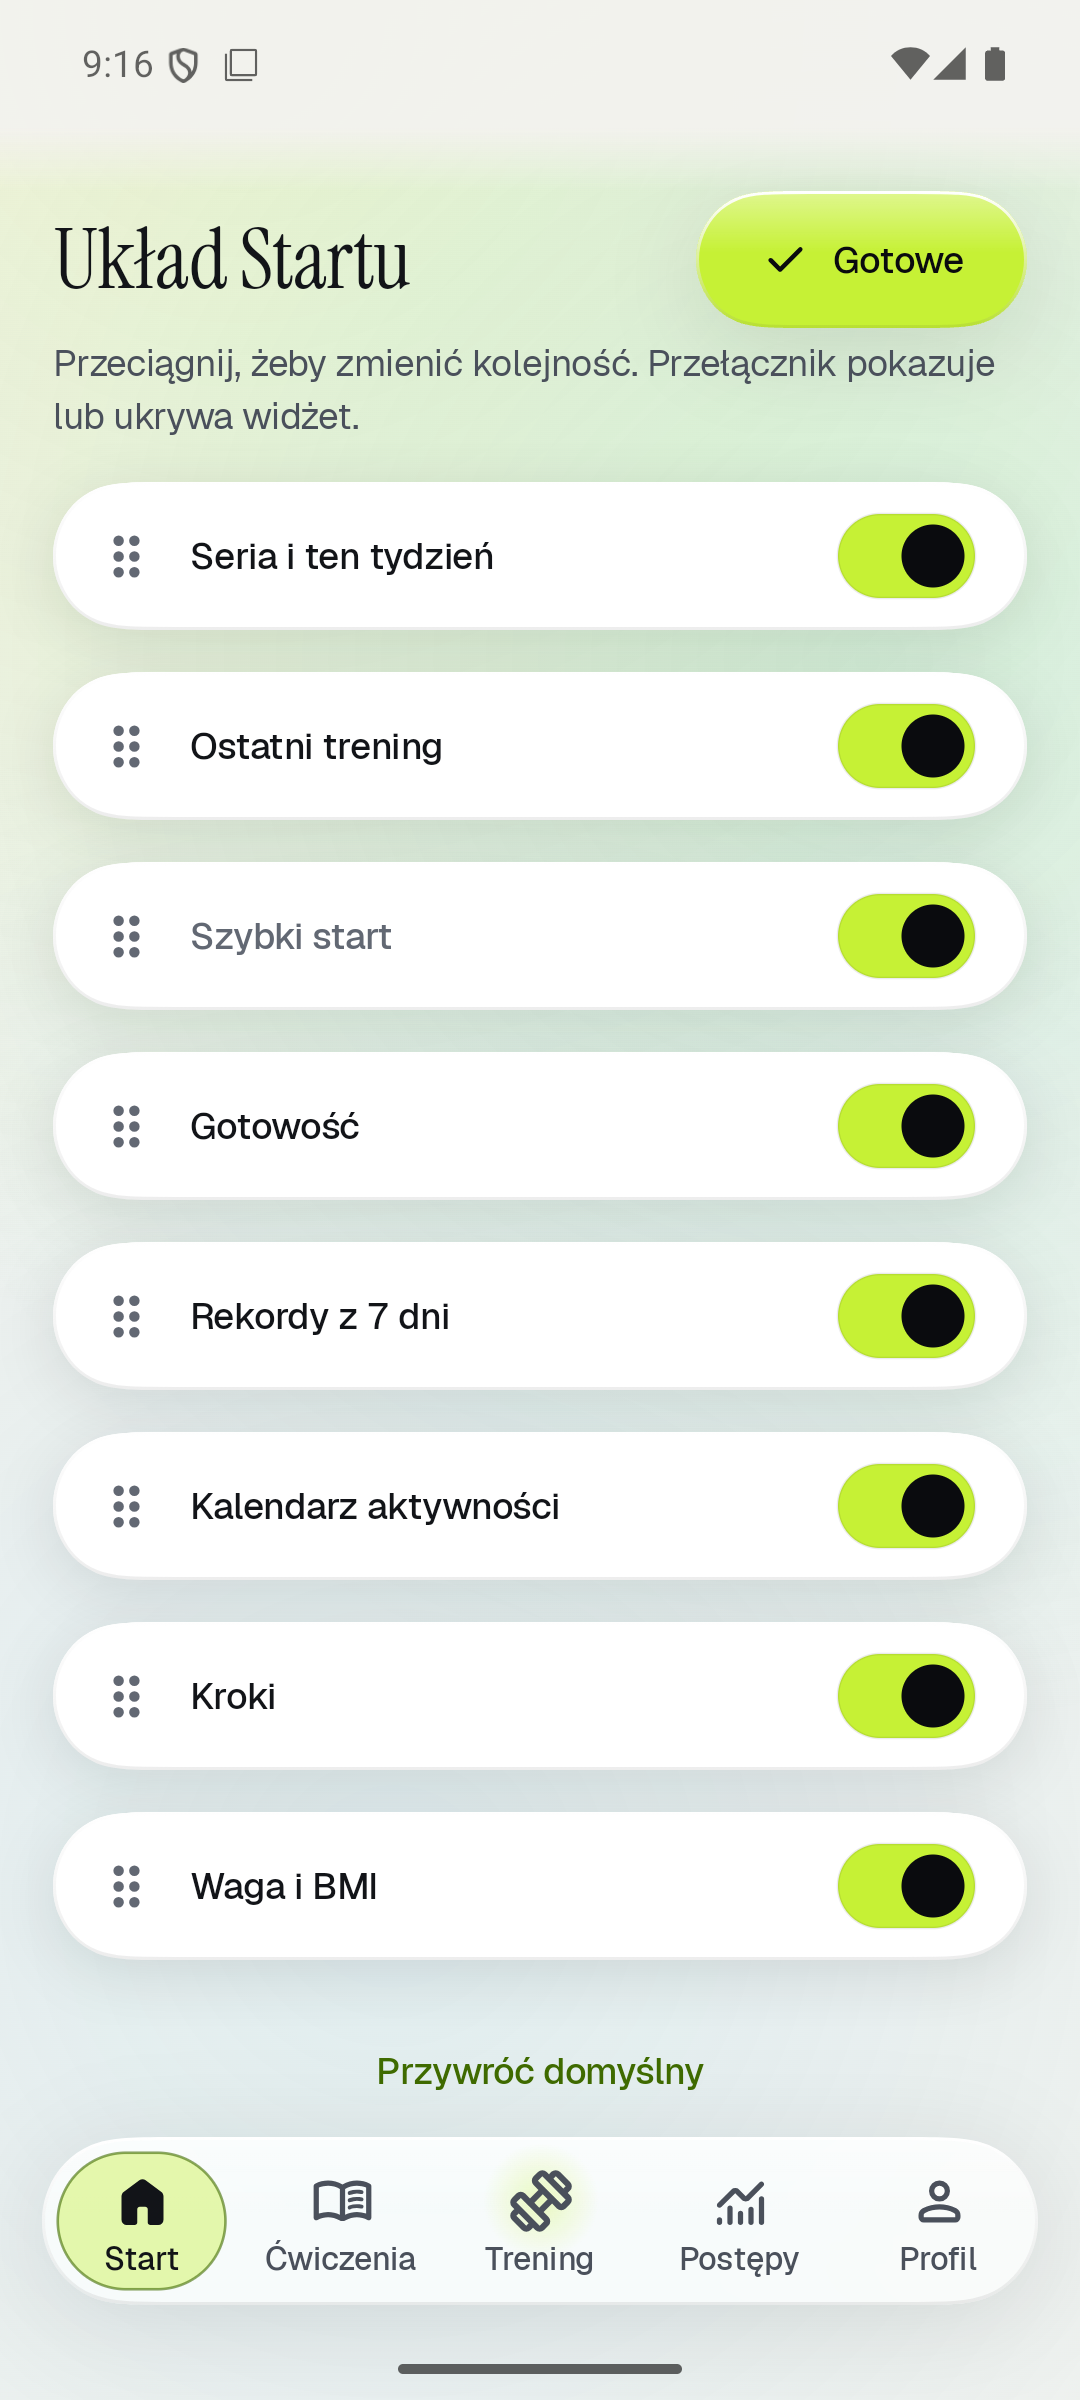
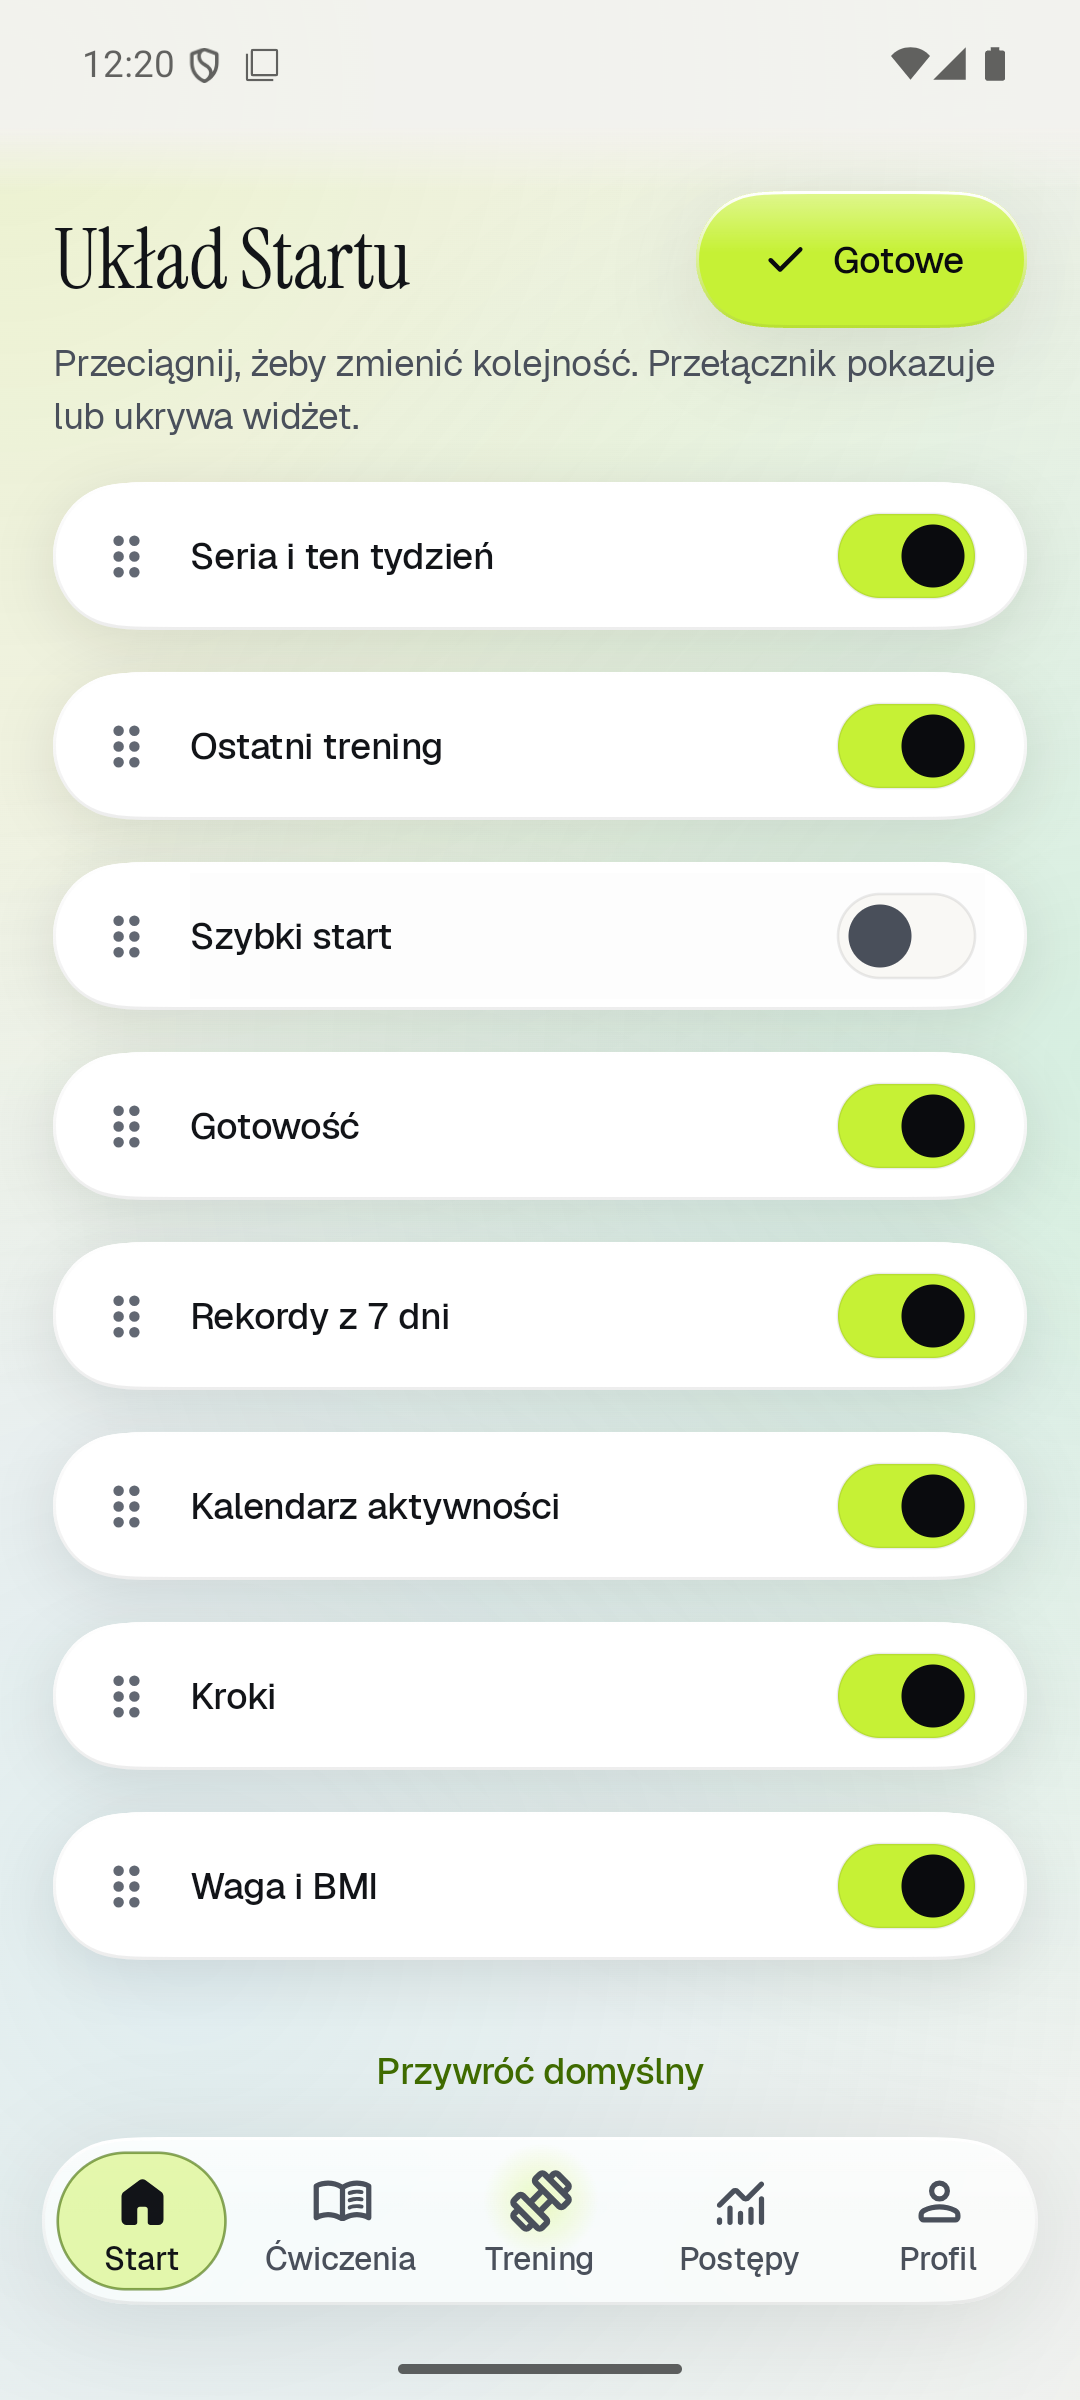
docs: stage 15 rest notification and hideable quick start, decision D-110

Changed region(s): [[0.7639, 0.375, 0.9167, 0.4062], [0.1833, 0.375, 0.3361, 0.4062], [0.0917, 0.0, 0.2444, 0.0312]]

diff --git a/docs/PROGRESS.md b/docs/PROGRESS.md
@@ -19,12 +19,13 @@
 | 12 | Szlif 1.1 (pomysły z `IDEAS.md`) | ✅ zaakceptowany (2026-10-25), wydania `preview-stage-12` i **v1.1.0**; czeka na test na telefonie |
 | 13 | Wersja 1.2: polskie instrukcje, poprawki, zależności | ✅ zaakceptowany (2026-10-25), wydania `preview-stage-13` i **v1.2.0**; czeka na test na telefonie |
 | 14 | Wersja 1.3: angielska wersja aplikacji | ✅ zaakceptowany (2026-10-25), wydania `preview-stage-14` i **v1.3.0**; czeka na test na telefonie |
-| 15 | Wersja 1.3.1: kierunek przejścia zakładek, przesuwany szybki start | 🔄 do akceptacji (2026-10-25), wydanie `preview-stage-15` |
+| 15 | Wersja 1.3.1: kierunek zakładek, widżet szybkiego startu, powiadomienie przerwy | 🔄 do akceptacji (2026-11-01), wydanie `preview-stage-15` |
 
 ## Bieżący stan
 
-- **Etap 15** do akceptacji (2026-10-25): przejście między zakładkami w kierunku ruchu w pasku nawigacji (D-108) i przesuwany szybki start (D-109), oba na prośbę właściciela.
-  - Szybki start sprawdzony na emulatorze: zapisany wcześniej układ ma go na górze; przeciągnięty pod „Ostatni trening” zostaje tam po restarcie; przełącznik wyłączony (`docs/screenshots/stage15-home-*.png`).
+- **Etap 15** do akceptacji (2026-11-01): przejście między zakładkami w kierunku ruchu w pasku nawigacji (D-108), „Szybki start” jako pełny widżet Startu — przesuwany i ukrywany (D-109), oraz osobny wygląd powiadomienia na żywo w trakcie przerwy z paskiem odliczającym czas i przyciskami „−15 s”, „+30 s”, „Pomiń przerwę” (D-110).
+  - Szybki start sprawdzony na emulatorze: zapisany wcześniej układ ma go na górze; przeciągnięty pod „Ostatni trening” zostaje tam po restarcie; przełącznik ukrywa i pokazuje kartę (`docs/screenshots/stage15-home-*.png`).
+  - Powiadomienie przerwy sprawdzone na emulatorze (API 36): `WorkoutNotificationsTest` 3/3, w trakcie przerwy ikona stopera, tytuł „Przerwa • …”, turkusowy pasek odliczający czas i działające przyciski „−15 s”, „+30 s”, „Pomiń przerwę” (`docs/screenshots/stage15-rest-notification.png`).
   - Sprawdzone na emulatorze (API 36, animacje spowolnione 10×): Postępy → Ćwiczenia wjeżdża z lewej, Ćwiczenia → Profil z prawej (`docs/screenshots/stage15-tab-to-left.png`, `stage15-tab-to-right.png`).
   - Wydanie testowe `preview-stage-15`; `preview-stage-14` usunięte (D-107). Tag v1.3.1 po akceptacji.
 - **Etap 14** zaakceptowany i zmergowany (PR #18, 2026-10-25): angielska wersja aplikacji na prośbę właściciela.
@@ -157,7 +158,8 @@
 1. Instalacja: APK z wydania `preview-stage-15` albo `adb install -r app\build\outputs\apk\debug\app-debug.apk`. Dane zostają.
 2. Profil → Ćwiczenia: ekran wjeżdża z lewej. Ćwiczenia → Postępy: z prawej. Start z innej zakładki: poprzedni ekran zjeżdża w prawo.
 3. W zakładce otwórz dowolny ekran (np. ćwiczenie): wjeżdża z prawej jak dotąd; gest wstecz bez zmian.
-4. Start → ołówek: „Szybki start” jest na górze listy; przeciągnij go niżej, „Gotowe” — karta jest w nowym miejscu, także po restarcie. Jego przełącznika nie da się wyłączyć.
+4. Start → ołówek: „Szybki start” jest na górze listy; przeciągnij go niżej albo wyłącz przełącznikiem, „Gotowe” — układ zostaje także po restarcie.
+5. Trening → odhacz serię: powiadomienie zmienia się w stoper przerwy („Przerwa • …”, ikona stopera, turkusowy pasek ubywający z czasem, przyciski „−15 s”, „+30 s”, „Pomiń przerwę”).
 
 ## Etap 14 — test na telefonie
 

diff --git a/docs/DECISIONS.md b/docs/DECISIONS.md
@@ -797,10 +797,14 @@ Właściciel zatwierdził wszystkie (2026-10-24):
 - Powrót (także do Startu, pierwszej zakładki z lewej) zostaje bez zmian: stary ekran zjeżdża w prawo, czyli zgodnie z tą zasadą.
 - **Alternatywy:** rozpoznawanie zakładki po wpisach sceny w `NavDisplay` (klucze treści są tekstem, kruche); przesuwanie obu ekranów naraz (większa zmiana stylu przejść z vynox).
 
-### D-109 Przesuwany szybki start (Etap 15, zmienia D-067)
-- Na prośbę właściciela (2026-10-25): „Szybki start” jest widżetem Startu i w trybie edycji przestawia się jak inne. Ukryć go nadal się nie da (przełącznik wyłączony), bo to jedyny skrót do treningu na Starcie (D-067).
-- Układy zapisane wcześniej nie mają go w tekście, więc trafia na górę, gdzie był. Inne widżety dodane później dalej idą na koniec. Kluczem jest `quick_start`; `-quick_start` z zewnątrz jest ignorowane.
-- **Alternatywy:** przełącznik także do ukrywania (właściciel prosił tylko o przesuwanie, a pusty Start bez skrótu nie ma sensu).
+### D-109 Szybki start jako widżet Startu (Etap 15, zmienia D-067)
+- Na prośbę właściciela (2026-10-25, doprecyzowane 2026-11-01): „Szybki start” jest pełnoprawnym widżetem Startu — w trybie edycji można go zarówno przestawić, jak i ukryć przełącznikiem.
+- Układy zapisane wcześniej nie mają go w tekście, więc trafia na górę, gdzie był. Inne widżety dodane później dalej idą na koniec. Kluczem jest `quick_start` (`-quick_start` gdy ukryty).
+
+### D-110 Powiadomienie przerwy jako stoper (Etap 15, zmienia D-044)
+- W trakcie przerwy powiadomienie na żywo (Live Update / Now Bar) przełącza się w tryb stopera przerwy: ma ikonę stopera (`ic_timer`), tytuł „Przerwa • <nazwa>”, turkusowy akcent (`NotificationRestArgb`), jednolity pasek postępu ubywający co sekundę wraz z odliczaniem oraz akcje „−15 s”, „+30 s” i „Pomiń przerwę”.
+- Po zakończeniu albo pominięciu przerwy wraca wygląd serii: ikona hantla, akcent Volt, segmenty serii i akcja „Ukończ serię”.
+- Odświeżanie co sekundę działa w `WorkoutService` tylko wtedy, gdy trwa przerwa (`workout.rest != null`).
 
 ## Zależności (plan; każda dostaje wpis z rozmiarem w etapie, w którym wchodzi)
 

diff --git a/CHANGELOG.md b/CHANGELOG.md
@@ -5,7 +5,8 @@ Najnowsza wersja na górze. Workflow wydania bierze do opisu Release sekcję `##
 ## 1.3.1
 
 - Przejście między zakładkami idzie w tę stronę, w którą przesuwasz się w pasku: zakładka po lewej wjeżdża z lewej, po prawej z prawej.
-- „Szybki start” przestawisz na Starcie jak inne widżety (ołówek → przeciągnij). Ukryć się go nie da.
+- „Szybki start” na Starcie działa jak pozostałe widżety: możesz go przestawić albo ukryć (ołówek).
+- W trakcie przerwy powiadomienie na żywo (Now Bar) wygląda inaczej niż podczas serii: ma ikonę stopera, tytuł „Przerwa • …”, turkusowy pasek odliczający czas przerwy oraz przyciski „−15 s”, „+30 s” i „Pomiń przerwę”.
 
 ## 1.3.0
 
